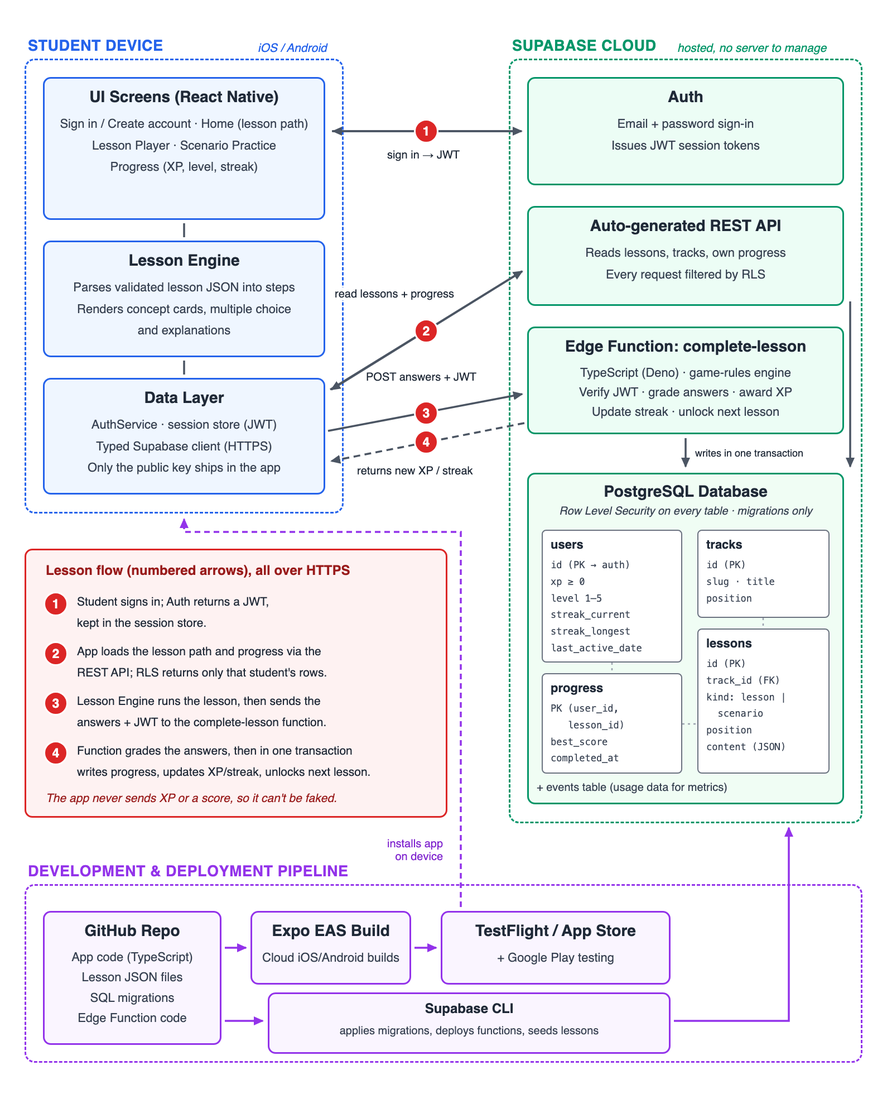
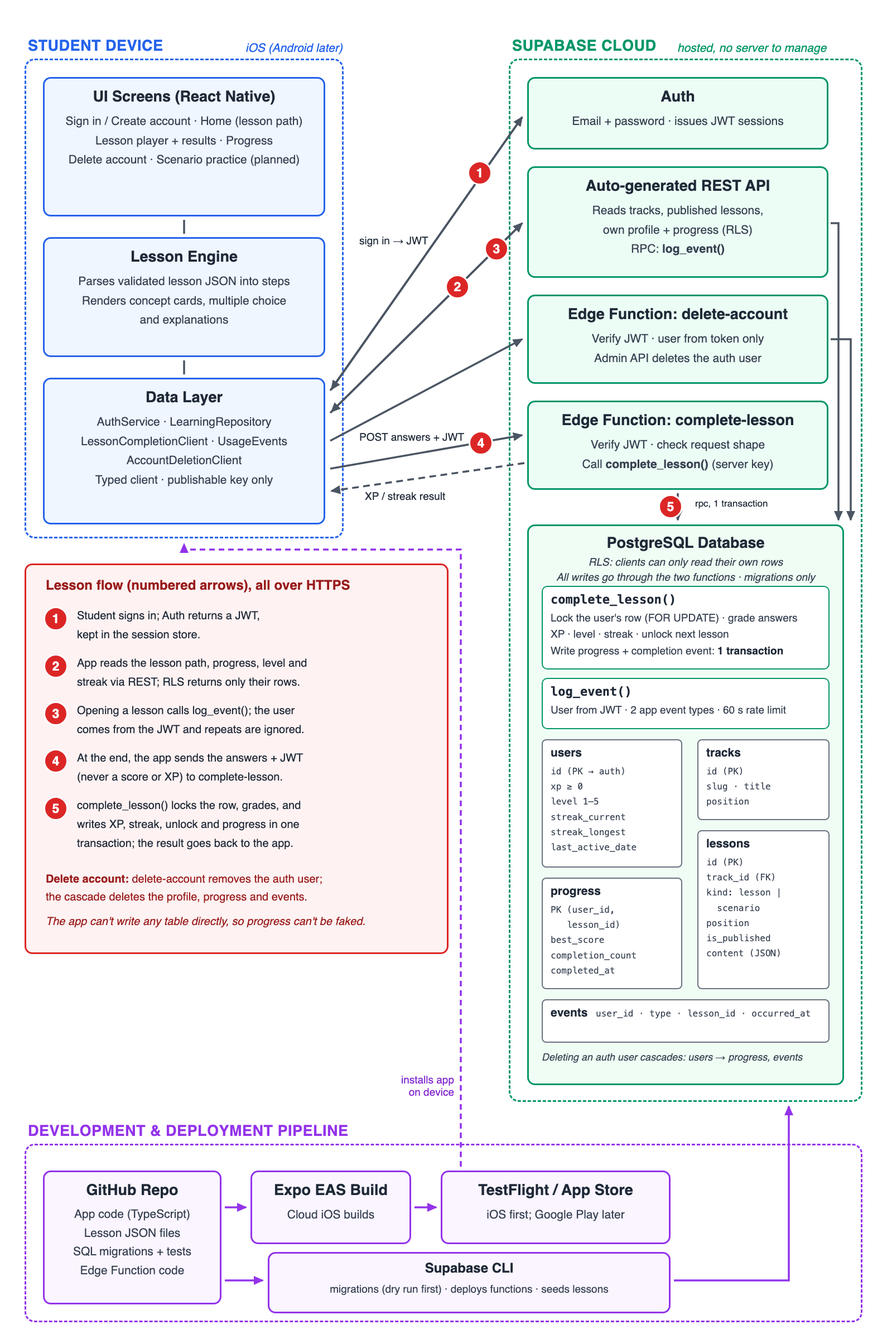
Update the README architecture diagram and text to match the code (#20)
The diagram showed the Edge Function grading answers. Grading and all
game rules now run in the complete_lesson() Postgres function in one
transaction, behind a thin complete-lesson function.

- Diagram: complete-lesson -> complete_lesson() (row lock, grade, XP,
  streak, unlock, progress + event); delete-account and the cascade;
  log_event() through REST; RLS read-only; 5-step flow plus deletion.
- README: corrected the game-rules, RLS and testing sections, the
  built-so-far list and the numbered flow; removed claims about tags,
  EAS secrets and a verified rebuild that don't exist yet.

diff --git a/.github/assets/architecture.html b/.github/assets/architecture.html
@@ -2,158 +2,187 @@
 <html><head><meta charset="utf-8"><style>
 *{box-sizing:border-box}
 body{margin:0;background:#fff;font-family:"DejaVu Sans",-apple-system,"Segoe UI",Helvetica,Arial,sans-serif;color:#1F2937}
-#c{position:relative;width:1590px;height:1960px}
+#c{position:relative;width:1590px;height:2400px}
 .abs{position:absolute}
 .zone{position:absolute;border:3px dashed;border-radius:18px}
 .zlabel{position:absolute;font-weight:700;font-size:27px;letter-spacing:.5px}
 .zsub{position:absolute;font-style:italic;font-size:21px}
 .box{position:absolute;border:3px solid;border-radius:14px;text-align:center;padding:16px 10px}
-.box h3{margin:0 0 14px;font-size:28px}
-.box p{margin:0;font-size:22px;line-height:1.75;color:#374151}
+.box h3{margin:0 0 12px;font-size:27px}
+.box p{margin:0;font-size:21px;line-height:1.65;color:#374151}
 .dev{border-color:#2563EB;background:#EFF6FF}
 .cloud{border-color:#059669;background:#ECFDF5}
 .pipe{border-color:#9333EA;background:#FAF5FF}
-.tbl{position:absolute;border:2px solid #6B7280;border-radius:8px;background:#fff;padding:12px 14px;text-align:left}
-.tbl b{font-size:22px;display:block;margin-bottom:10px}
-.tbl code{display:block;font-family:"DejaVu Sans Mono",Menlo,monospace;font-size:17px;line-height:1.75;color:#374151}
+.fn{position:absolute;border:2.5px solid #059669;border-radius:10px;background:#fff;padding:10px 14px;text-align:left}
+.fn b{font-size:22px;display:block;margin-bottom:6px;font-family:"DejaVu Sans Mono",Menlo,monospace}
+.fn strong{font-weight:700;color:#1F2937}
+.fn span{display:block;font-size:19px;line-height:1.55;color:#374151}
+.tbl{position:absolute;border:2px solid #6B7280;border-radius:8px;background:#fff;padding:10px 14px;text-align:left}
+.tbl b{font-size:21px;display:block;margin-bottom:8px}
+.tbl code{display:block;font-family:"DejaVu Sans Mono",Menlo,monospace;font-size:16px;line-height:1.7;color:#374151}
 .num{position:absolute;width:44px;height:44px;border-radius:50%;background:#DC2626;color:#fff;font-weight:700;font-size:23px;display:flex;align-items:center;justify-content:center;border:3px solid #fff}
-.lbl{position:absolute;font-size:20px;color:#1F2937;background:#fff;padding:0 4px;white-space:nowrap}
+.lbl{position:absolute;font-size:19px;color:#1F2937;background:#fff;padding:0 4px;white-space:nowrap}
 svg{position:absolute;left:0;top:0}
 </style></head><body><div id="c">
 
 <!-- zones -->
 <div class="zlabel" style="left:50px;top:66px;color:#2563EB">STUDENT DEVICE</div>
-<div class="zsub" style="left:462px;top:74px;color:#2563EB">iOS / Android</div>
-<div class="zone" style="left:44px;top:105px;width:572px;height:815px;border-color:#2563EB"></div>
+<div class="zsub" style="left:440px;top:74px;color:#2563EB">iOS (Android later)</div>
+<div class="zone" style="left:44px;top:105px;width:572px;height:860px;border-color:#2563EB"></div>
 
 <div class="zlabel" style="left:918px;top:66px;color:#059669">SUPABASE CLOUD</div>
 <div class="zsub" style="left:1214px;top:74px;color:#059669">hosted, no server to manage</div>
-<div class="zone" style="left:912px;top:105px;width:634px;height:1370px;border-color:#059669"></div>
+<div class="zone" style="left:912px;top:105px;width:634px;height:1870px;border-color:#059669"></div>
 
 <!-- device boxes -->
-<div class="box dev" style="left:77px;top:138px;width:506px;height:256px">
+<div class="box dev" style="left:77px;top:138px;width:506px;height:250px">
   <h3>UI Screens (React Native)</h3>
-  <p>Sign in / Create account · Home (lesson path)<br>Lesson Player · Scenario Practice<br>Progress (XP, level, streak)</p>
+  <p>Sign in / Create account · Home (lesson path)<br>Lesson player + results · Progress<br>Delete account · Scenario practice (planned)</p>
 </div>
-<div class="box dev" style="left:77px;top:431px;width:506px;height:209px">
+<div class="box dev" style="left:77px;top:425px;width:506px;height:215px">
   <h3>Lesson Engine</h3>
   <p>Parses validated lesson JSON into steps<br>Renders concept cards, multiple choice<br>and explanations</p>
 </div>
-<div class="box dev" style="left:77px;top:677px;width:506px;height:209px">
+<div class="box dev" style="left:77px;top:677px;width:506px;height:263px">
   <h3>Data Layer</h3>
-  <p>AuthService · session store (JWT)<br>Typed Supabase client (HTTPS)<br>Only the public key ships in the app</p>
+  <p>AuthService · LearningRepository<br>LessonCompletionClient · UsageEvents<br>AccountDeletionClient<br>Typed client · publishable key only</p>
 </div>
 
 <!-- cloud boxes -->
-<div class="box cloud" style="left:945px;top:138px;width:568px;height:194px">
+<div class="box cloud" style="left:945px;top:138px;width:540px;height:130px">
   <h3>Auth</h3>
-  <p>Email + password sign-in<br>Issues JWT session tokens</p>
+  <p>Email + password · issues JWT sessions</p>
 </div>
-<div class="box cloud" style="left:945px;top:369px;width:568px;height:179px">
+<div class="box cloud" style="left:945px;top:298px;width:540px;height:200px">
   <h3>Auto-generated REST API</h3>
-  <p>Reads lessons, tracks, own progress<br>Every request filtered by RLS</p>
+  <p>Reads tracks, published lessons,<br>own profile + progress (RLS)<br>RPC: <b>log_event()</b></p>
 </div>
-<div class="box cloud" style="left:945px;top:585px;width:568px;height:193px">
+<div class="box cloud" style="left:945px;top:528px;width:540px;height:160px">
+  <h3>Edge Function: delete-account</h3>
+  <p>Verify JWT · user from token only<br>Admin API deletes the auth user</p>
+</div>
+<div class="box cloud" style="left:945px;top:718px;width:540px;height:160px">
   <h3>Edge Function: complete-lesson</h3>
-  <p style="line-height:1.6">TypeScript (Deno) · game-rules engine<br>Verify JWT · grade answers · award XP<br>Update streak · unlock next lesson</p>
+  <p>Verify JWT · check request shape<br>Call <b>complete_lesson()</b> (server key)</p>
 </div>
 
 <!-- database -->
-<div class="box cloud" style="left:945px;top:847px;width:568px;height:594px;background:#F0FDF4;padding-top:14px">
+<div class="box cloud" style="left:945px;top:940px;width:568px;height:1005px;background:#F0FDF4;padding-top:14px">
   <h3 style="margin-bottom:6px">PostgreSQL Database</h3>
-  <p style="font-style:italic;font-size:20px;line-height:1.4">Row Level Security on every table · migrations only</p>
+  <p style="font-style:italic;font-size:19px;line-height:1.4">RLS: clients can only read their own rows<br>All writes go through the two functions · migrations only</p>
 </div>
-<div class="tbl" style="left:971px;top:949px;width:252px;height:238px">
+<div class="fn" style="left:971px;top:1050px;width:516px;height:150px">
+  <b>complete_lesson()</b>
+  <span>Lock the user's row (FOR UPDATE) · grade answers<br>XP · level · streak · unlock next lesson<br>Write progress + completion event: <strong>1 transaction</strong></span>
+</div>
+<div class="fn" style="left:971px;top:1215px;width:516px;height:92px">
+  <b>log_event()</b>
+  <span>User from JWT · 2 app event types · 60 s rate limit</span>
+</div>
+<div class="tbl" style="left:971px;top:1325px;width:252px;height:230px">
   <b>users</b>
   <code>id (PK → auth)<br>xp ≥ 0<br>level 1–5<br>streak_current<br>streak_longest<br>last_active_date</code>
 </div>
-<div class="tbl" style="left:1250px;top:949px;width:237px;height:158px">
+<div class="tbl" style="left:1250px;top:1325px;width:237px;height:145px">
   <b>tracks</b>
   <code>id (PK)<br>slug · title<br>position</code>
 </div>
-<div class="tbl" style="left:971px;top:1206px;width:252px;height:180px">
+<div class="tbl" style="left:971px;top:1573px;width:252px;height:200px">
   <b>progress</b>
-  <code>PK (user_id,<br>&nbsp;&nbsp;&nbsp;lesson_id)<br>best_score<br>completed_at</code>
+  <code>PK (user_id,<br>&nbsp;&nbsp;&nbsp;lesson_id)<br>best_score<br>completion_count<br>completed_at</code>
 </div>
-<div class="tbl" style="left:1250px;top:1126px;width:237px;height:260px">
+<div class="tbl" style="left:1250px;top:1488px;width:237px;height:285px">
   <b>lessons</b>
-  <code>id (PK)<br>track_id (FK)<br>kind: lesson |<br>&nbsp;&nbsp;scenario<br>position<br>content (JSON)</code>
+  <code>id (PK)<br>track_id (FK)<br>kind: lesson |<br>&nbsp;&nbsp;scenario<br>position<br>is_published<br>content (JSON)</code>
 </div>
-<div class="abs" style="left:962px;top:1399px;font-size:20px;color:#374151">+ events table (usage data for metrics)</div>
+<div class="tbl" style="left:971px;top:1791px;width:516px;height:78px">
+  <b style="display:inline;margin:0">events</b>
+  <code style="display:inline;margin-left:10px">user_id · type · lesson_id · occurred_at</code>
+</div>
+<div class="abs" style="left:971px;top:1882px;width:520px;font-size:18px;line-height:1.4;color:#374151;font-style:italic">Deleting an auth user cascades: users → progress, events</div>
 
 <!-- flow legend -->
-<div class="abs" style="left:44px;top:983px;width:758px;height:482px;border:3px solid #DC2626;border-radius:14px;background:#FEF2F2"></div>
-<div class="abs" style="left:82px;top:1008px;font-size:24px;font-weight:700;color:#991B1B">Lesson flow (numbered arrows), all over HTTPS</div>
-<div class="num" style="left:78px;top:1060px">1</div>
-<div class="abs" style="left:138px;top:1060px;font-size:21px;line-height:1.8">Student signs in; Auth returns a JWT,<br>kept in the session store.</div>
-<div class="num" style="left:78px;top:1149px">2</div>
-<div class="abs" style="left:138px;top:1149px;font-size:21px;line-height:1.8">App loads the lesson path and progress via the<br>REST API; RLS returns only that student's rows.</div>
-<div class="num" style="left:78px;top:1238px">3</div>
-<div class="abs" style="left:138px;top:1238px;font-size:21px;line-height:1.8">Lesson Engine runs the lesson, then sends the<br>answers + JWT to the complete-lesson function.</div>
-<div class="num" style="left:78px;top:1327px">4</div>
-<div class="abs" style="left:138px;top:1327px;font-size:21px;line-height:1.8">Function grades the answers, then in one transaction<br>writes progress, updates XP/streak, unlocks next lesson.</div>
-<div class="abs" style="left:82px;top:1418px;font-size:21px;font-style:italic;color:#991B1B">The app never sends XP or a score, so it can't be faked.</div>
+<div class="abs" style="left:44px;top:1010px;width:760px;height:700px;border:3px solid #DC2626;border-radius:14px;background:#FEF2F2"></div>
+<div class="abs" style="left:82px;top:1035px;font-size:24px;font-weight:700;color:#991B1B">Lesson flow (numbered arrows), all over HTTPS</div>
+<div class="num" style="left:78px;top:1087px">1</div>
+<div class="abs" style="left:138px;top:1087px;font-size:20px;line-height:1.7">Student signs in; Auth returns a JWT,<br>kept in the session store.</div>
+<div class="num" style="left:78px;top:1172px">2</div>
+<div class="abs" style="left:138px;top:1172px;font-size:20px;line-height:1.7">App reads the lesson path, progress, level and<br>streak via REST; RLS returns only their rows.</div>
+<div class="num" style="left:78px;top:1257px">3</div>
+<div class="abs" style="left:138px;top:1257px;font-size:20px;line-height:1.7">Opening a lesson calls log_event(); the user<br>comes from the JWT and repeats are ignored.</div>
+<div class="num" style="left:78px;top:1342px">4</div>
+<div class="abs" style="left:138px;top:1342px;font-size:20px;line-height:1.7">At the end, the app sends the answers + JWT<br>(never a score or XP) to complete-lesson.</div>
+<div class="num" style="left:78px;top:1427px">5</div>
+<div class="abs" style="left:138px;top:1427px;font-size:20px;line-height:1.7">complete_lesson() locks the row, grades, and<br>writes XP, streak, unlock and progress in one<br>transaction; the result goes back to the app.</div>
+<div class="abs" style="left:82px;top:1560px;width:700px;font-size:20px;line-height:1.6;color:#991B1B"><b>Delete account:</b> delete-account removes the auth user;<br>the cascade deletes the profile, progress and events.</div>
+<div class="abs" style="left:82px;top:1640px;font-size:20px;font-style:italic;color:#991B1B">The app can't write any table directly, so progress can't be faked.</div>
 
 <!-- pipeline -->
-<div class="zlabel" style="left:50px;top:1545px;color:#9333EA">DEVELOPMENT &amp; DEPLOYMENT PIPELINE</div>
-<div class="zone" style="left:44px;top:1584px;width:1502px;height:320px;border-color:#9333EA"></div>
-<div class="box pipe" style="left:77px;top:1632px;width:320px;height:240px">
+<div class="zlabel" style="left:50px;top:2011px;color:#9333EA">DEVELOPMENT &amp; DEPLOYMENT PIPELINE</div>
+<div class="zone" style="left:44px;top:2050px;width:1502px;height:320px;border-color:#9333EA"></div>
+<div class="box pipe" style="left:77px;top:2098px;width:320px;height:240px">
   <h3>GitHub Repo</h3>
-  <p style="line-height:1.65">App code (TypeScript)<br>Lesson JSON files<br>SQL migrations<br>Edge Function code</p>
+  <p style="line-height:1.6">App code (TypeScript)<br>Lesson JSON files<br>SQL migrations + tests<br>Edge Function code</p>
 </div>
-<div class="box pipe" style="left:449px;top:1632px;width:288px;height:132px">
+<div class="box pipe" style="left:449px;top:2098px;width:288px;height:132px">
   <h3>Expo EAS Build</h3>
-  <p>Cloud iOS/Android builds</p>
+  <p>Cloud iOS builds</p>
 </div>
-<div class="box pipe" style="left:790px;top:1632px;width:412px;height:132px">
+<div class="box pipe" style="left:790px;top:2098px;width:412px;height:132px">
   <h3>TestFlight / App Store</h3>
-  <p>+ Google Play testing</p>
+  <p>iOS first; Google Play later</p>
 </div>
-<div class="box pipe" style="left:480px;top:1778px;width:722px;height:110px;padding-top:12px">
+<div class="box pipe" style="left:480px;top:2244px;width:722px;height:110px;padding-top:12px">
   <h3 style="font-size:24px;margin-bottom:8px">Supabase CLI</h3>
-  <p style="font-size:20px">applies migrations, deploys functions, seeds lessons</p>
+  <p style="font-size:19px">migrations (dry run first) · deploys functions · seeds lessons</p>
 </div>
 
 <!-- labels on arrows -->
-<div class="lbl" style="left:690px;top:266px">sign in → JWT</div>
-<div class="lbl" style="left:596px;top:515px">read lessons + progress</div>
-<div class="lbl" style="left:652px;top:664px">POST answers + JWT</div>
-<div class="lbl" style="left:636px;top:832px">returns new XP / streak</div>
-<div class="lbl" style="left:1242px;top:801px;font-size:18px">writes in one transaction</div>
-<div class="lbl" style="left:690px;top:1500px;color:#7E22CE;background:#fff;line-height:1.15;text-align:right">installs app<br>on device</div>
+<div class="lbl" style="left:640px;top:420px">sign in → JWT</div>
+<div class="lbl" style="left:640px;top:772px">POST answers + JWT</div>
+<div class="lbl" style="left:650px;top:878px">XP / streak result</div>
+<div class="lbl" style="left:1242px;top:892px;font-size:17px">rpc, 1 transaction</div>
+<div class="lbl" style="left:690px;top:1925px;width:128px;text-align:right;color:#7E22CE;line-height:1.15">installs app<br>on device</div>
 
-<svg width="1590" height="1960">
+<svg width="1590" height="2400">
   <defs>
     <marker id="a" markerUnits="userSpaceOnUse" markerWidth="18" markerHeight="16" refX="16" refY="8" orient="auto"><path d="M0,0 L18,8 L0,16 z" fill="#4B5563"/></marker>
     <marker id="ap" markerUnits="userSpaceOnUse" markerWidth="18" markerHeight="16" refX="16" refY="8" orient="auto"><path d="M0,0 L18,8 L0,16 z" fill="#9333EA"/></marker>
   </defs>
   <g stroke="#4B5563" stroke-width="3.5" fill="none">
-    <line x1="595" y1="235" x2="935" y2="235" marker-end="url(#a)"/>
-    <line x1="935" y1="235" x2="597" y2="235" marker-end="url(#a)"/>
-    <line x1="330" y1="400" x2="330" y2="425"/>
+    <!-- inside the device -->
+    <line x1="330" y1="394" x2="330" y2="419"/>
     <line x1="330" y1="646" x2="330" y2="671"/>
-    <line x1="592" y1="698" x2="936" y2="486" marker-end="url(#a)"/>
-    <line x1="936" y1="486" x2="594" y2="698" marker-end="url(#a)"/>
-    <line x1="588" y1="772" x2="936" y2="706" marker-end="url(#a)"/>
-    <line x1="940" y1="758" x2="594" y2="826" stroke-dasharray="12 8" marker-end="url(#a)"/>
-    <line x1="1229" y1="785" x2="1229" y2="836" marker-end="url(#a)"/>
-    <line x1="1524" y1="540" x2="1524" y2="836" marker-end="url(#a)"/>
-  </g>
-  <g stroke="#9CA3AF" stroke-width="2.5" stroke-dasharray="4 6">
-    <line x1="1368" y1="1107" x2="1368" y2="1126"/>
-    <line x1="1097" y1="1187" x2="1097" y2="1206"/>
-    <line x1="1223" y1="1297" x2="1250" y2="1297"/>
+    <!-- 1: auth (both ways) -->
+    <line x1="592" y1="700" x2="936" y2="210" marker-end="url(#a)"/>
+    <line x1="936" y1="210" x2="594" y2="698" marker-end="url(#a)"/>
+    <!-- 2/3: REST + log_event (both ways) -->
+    <line x1="592" y1="740" x2="936" y2="400" marker-end="url(#a)"/>
+    <line x1="936" y1="400" x2="594" y2="738" marker-end="url(#a)"/>
+    <!-- delete-account -->
+    <line x1="592" y1="790" x2="936" y2="608" marker-end="url(#a)"/>
+    <!-- 4: POST answers -->
+    <line x1="592" y1="840" x2="936" y2="780" marker-end="url(#a)"/>
+    <!-- result back -->
+    <line x1="940" y1="830" x2="594" y2="880" stroke-dasharray="12 8" marker-end="url(#a)"/>
+    <!-- 5: complete-lesson → DB -->
+    <line x1="1215" y1="884" x2="1215" y2="932" marker-end="url(#a)"/>
+    <!-- delete-account → DB (cascade) -->
+    <polyline points="1489,608 1525,608 1525,932" marker-end="url(#a)"/>
+    <!-- REST → DB -->
+    <polyline points="1489,400 1503,400 1503,932" marker-end="url(#a)"/>
   </g>
   <g stroke="#9333EA" stroke-width="3.5" fill="none">
-    <line x1="403" y1="1698" x2="441" y2="1698" marker-end="url(#ap)"/>
-    <line x1="743" y1="1698" x2="782" y2="1698" marker-end="url(#ap)"/>
-    <line x1="403" y1="1829" x2="471" y2="1829" marker-end="url(#ap)"/>
-    <polyline points="1208,1829 1414,1829 1414,1483" marker-end="url(#ap)"/>
-    <polyline points="826,1625 826,953 330,953 330,930" stroke-dasharray="10 7" marker-end="url(#ap)"/>
+    <line x1="403" y1="2164" x2="441" y2="2164" marker-end="url(#ap)"/>
+    <line x1="743" y1="2164" x2="782" y2="2164" marker-end="url(#ap)"/>
+    <line x1="403" y1="2295" x2="471" y2="2295" marker-end="url(#ap)"/>
+    <polyline points="1208,2295 1414,2295 1414,1983" marker-end="url(#ap)"/>
+    <polyline points="826,2091 826,985 330,985 330,975" stroke-dasharray="10 7" marker-end="url(#ap)"/>
   </g>
 </svg>
-<div class="num" style="left:742px;top:213px">1</div>
-<div class="num" style="left:742px;top:571px">2</div>
-<div class="num" style="left:742px;top:718px">3</div>
-<div class="num" style="left:742px;top:770px">4</div>
+<div class="num" style="left:838px;top:288px">1</div>
+<div class="num" style="left:798px;top:492px">2</div>
+<div class="num" style="left:868px;top:424px">3</div>
+<div class="num" style="left:840px;top:772px">4</div>
+<div class="num" style="left:1180px;top:886px">5</div>
 </div></body></html>

diff --git a/README.md b/README.md
@@ -14,23 +14,42 @@ Coding interviews have LeetCode for daily practice. System design has scattered 
 
 The backend is the main technical focus. The mobile app is intentionally a thin client.
 
-**Built so far:** the database schema (via migrations), email/password sign-in with protected screens, the game-rules engine (XP, levels, streaks, unlocking), the lesson content format and its validator, and the app ↔ Supabase foundation, all covered by 120+ unit tests. **In progress:** the `complete-lesson` Edge Function, Row Level Security policies, the lesson screen and the first lessons.
+**Built so far:**
+- the database schema, built only through migrations
+- email/password sign-in with protected screens
+- the lesson path, lesson player and results screens
+- server-side grading and game rules (XP, levels, streaks, unlocking) in one Postgres transaction
+- read-only Row Level Security
+- in-app account deletion
+- usage-event logging for metrics
+- the lesson content format and its validator
+
+All of it is covered by 290+ automated tests. **In progress:** the first full set of lessons and the TestFlight release.
 
 - **Server-authoritative game logic.** XP, streaks, levels and lesson unlocks are computed on the server, never on the device: the app sends the user's answers, not a score. A modified client can't award itself points.
-  - The rules live in a pure, deterministic engine (`supabase/functions/_shared/game`) that runs both in the Edge Function (Deno) and in the unit tests. Streaks follow the user's own time zone.
-  - The database enforces them too: XP can't go negative, levels are 1–5, and the `progress (user_id, lesson_id)` primary key means XP is awarded at most once per lesson, even for duplicate or simultaneous submissions.
+  - The rules run in one PostgreSQL function, `complete_lesson()`, inside a single transaction:
+    - it locks the user's row (`SELECT … FOR UPDATE`)
+    - it grades the answers
+    - it updates XP, level, streak and unlocks, and records progress and a usage event
+
+    A two-session test proves that a double submission can't award XP twice. Streaks follow the user's own time zone.
+  - The `complete-lesson` Edge Function (TypeScript/Deno) stays thin. It verifies the user's token, checks the request shape, and calls that function with a server-only key.
+  - The schema enforces the rules too: XP can't go negative, levels are 1–5, and the `progress (user_id, lesson_id)` primary key means XP is awarded at most once per lesson.
 - **Security by design.**
-  - PostgreSQL Row Level Security on every table: users can read and write only their own rows, and no client can write XP or streak values directly.
+  - PostgreSQL Row Level Security on every table: users can **read** only published content and their own rows, and **no client can write any table directly**.
+  - Writes go through server functions that take the user from the verified token, never from the request. These are `complete_lesson()` and `log_event()`, which accepts only two app event types and has a 60-second rate limit.
+  - **In-app account deletion** (an App Store requirement): the `delete-account` Edge Function deletes the user through the admin API. Cascading foreign keys then remove their profile, progress and events in one step, and the logs never record who was deleted.
   - The app ships only a public, RLS-restricted key. It **refuses to start** if a privileged (`secret` / `service_role`) key is ever configured, which catches that mistake before it can reach a release build.
 - **Data-driven lessons.** Lessons are structured JSON, validated against a schema in the test suite (exactly 5 questions, a correct answer that exists, cited sources), and rendered by shared components. A new topic or a whole new track is a content change rather than new screens or schema changes.
 - **Reproducible backend.**
   - A normalized 5-table schema (`users`, `tracks`, `lessons`, `progress`, `events`) built only through version-controlled SQL migrations.
   - Lessons are loaded by a seed script.
-  - The full backend can be rebuilt from the repo on a fresh project.
+  - Migrations, functions and seed data all live in the repo, so the backend can be recreated on a fresh project. A full rebuild test is planned.
 - **Tested and measured.**
-  - 120+ unit tests today: auth, input validation, lesson format, and the game rules, which are mapped one-to-one to the API contract's test plan.
-  - Planned: 20+ Edge Function tests and 10+ Row Level Security tests.
-  - Performance target: 95% of `complete-lesson` calls finish in under 1 s, with load testing at 50 concurrent users.
+  - Jest unit tests cover the app logic and the Edge Function handlers, with dependencies injected so no network is needed.
+  - pgTAP database tests cover Row Level Security, grading and game rules, the deletion cascade and event logging.
+  - A two-session concurrency test checks the double-submit case.
+  - Planned: performance (95% of `complete-lesson` calls under 1 s) and load testing at 50 concurrent users.
 - **Clean architecture.** Screens stay thin; domain logic lives in small, dependency-injected TypeScript classes that are unit tested without a network or device.
 
 ## Tech stack
@@ -39,22 +58,25 @@ The backend is the main technical focus. The mobile app is intentionally a thin 
 |---|---|
 | Mobile | React Native 0.88, Expo SDK 58, TypeScript, Expo Router |
 | Backend | Supabase: PostgreSQL, Auth, Row Level Security, Edge Functions (TypeScript/Deno) |
-| Testing | Jest (app and shared game rules), Deno test runner and SQL tests (backend, planned) |
+| Testing | Jest (app and Edge Function handlers), pgTAP (database), a two-session concurrency test |
 | Delivery | Expo EAS Build/Submit, TestFlight, App Store |
 
 ## Architecture
 
-![DesignReps architecture: the app on the student's device talks to Supabase Auth, an auto-generated REST API and the complete-lesson Edge Function, all backed by PostgreSQL with Row Level Security; GitHub, Expo EAS and the Supabase CLI build and deploy it.](.github/assets/architecture.png)
+![DesignReps architecture: the app on the student's device talks to Supabase Auth, the auto-generated REST API (reads plus the log_event function) and two Edge Functions, complete-lesson and delete-account. Everything is backed by PostgreSQL, where Row Level Security makes clients read-only and the complete_lesson function grades and awards progress in one transaction. GitHub, Expo EAS and the Supabase CLI build and deploy it.](.github/assets/architecture.png)
 
 1. The student signs in; Supabase Auth returns a JWT session token.
 2. The app reads lessons and the student's own progress through Supabase's REST API. Row Level Security filters every query to that student's rows.
-3. When a lesson ends, the app sends the **answers** (not a score) with the token to the `complete-lesson` Edge Function ([API contract](api/complete-lesson.md)).
-4. The function grades the answers, applies the game rules, and in **one transaction** records progress, updates XP and the streak, unlocks the next lesson, and logs an anonymous usage event.
+3. Opening a lesson logs a `lesson_started` event through `log_event()` ([contract](api/log-event.md)). The user comes from the token, and repeats within 60 s are ignored.
+4. When a lesson ends, the app sends the **answers** (not a score) with the token to the `complete-lesson` Edge Function ([API contract](api/complete-lesson.md)).
+5. The function verifies the token and calls `complete_lesson()`. In **one transaction**, that function locks the student's row, grades the answers, updates XP, level and streak, unlocks the next lesson, and records progress and a completion event.
+
+**Account deletion:** the `delete-account` Edge Function ([contract](api/delete-account.md)) deletes the user, and the database cascade removes everything tied to them.
 
 ## Engineering practices
 
-- Every feature and fix ships on its own branch through a pull request; releases are tagged.
+- Every feature and fix ships on its own branch through a pull request; releases will be tagged starting with the first App Store build.
 - Type-check, lint and tests run before every merge.
 - API behavior is specified first ([`api/complete-lesson.md`](api/complete-lesson.md)), then implemented and tested against that contract.
 - The schema changes only through migrations in [`supabase/migrations`](supabase/migrations); the lesson format is documented in [`content/README.md`](content/README.md).
-- No secrets in the repository. Build-time and server secrets live in EAS and Supabase secret stores.
+- No secrets in the repository. Server keys live only in Supabase's secret store; the app ships only the publishable key.
